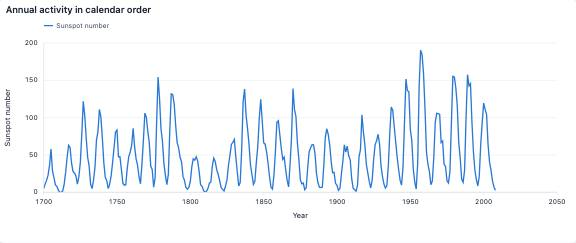
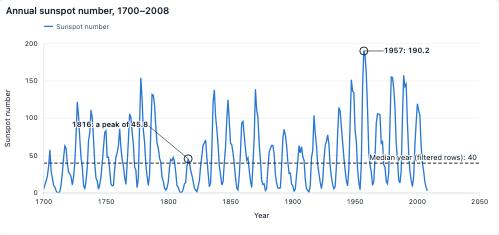
feat(daily): rewrite the sunspot notebooks around peak heights and the smoothing cost

diff --git a/apps/demo/public/daily-viz/projects/sunspots/smoothing-cost.eda.md b/apps/demo/public/daily-viz/projects/sunspots/smoothing-cost.eda.md
@@ -1,65 +1,52 @@
-# What an eleven-year average removes from the sunspot record
+# An eleven-year average halves the solar peaks and misplaces the quiet years
 
-**How different is annual activity from a centered eleven-observation mean?** Each row is one year.
+**What does a smoothed sunspot curve throw away?** Each row is one year of the annual sunspot number, 1700 to 2008, beside a centered eleven-year mean: the average of that year, the five before it, and the five after. Eleven years is one solar cycle, so the average deliberately removes the cycle. The cost is a curve that never shows a real maximum and puts the quiet years in the wrong place.
 
 ```eda
 eda query=r
 year:num=r.year label="Year"
 activity:num=r.activity label="Sunspot number"
-smooth11:num=r.smooth11 label="11-year mean (sunspot number)"
-departure:num=r.departure label="Departure (sunspot number)"
+smooth11:num=r.smooth11 label="11-year mean"
+departure:num=r.departure label="Departure from the 11-year mean"
+abs_departure:num=abs_departure label="Absolute departure"
 ```
 
-## 1. Raw annual values beside the centered mean
+## The average cuts every peak in half
 
-Both series stay on one scale. The smooth is deliberately unavailable where a complete centered window does not exist.
-
-```eda
-line @nb-sunspots-smoothing-cost-chart-1 x=year y=activity,smooth11 title="Raw annual values beside the centered mean" x.title="Year" y.title="Activity (sunspot number) / Smooth11 (sunspot number)"
-```
-
-## 2. What the smooth leaves out
-
-Subtracting the smooth makes the remaining amplitude visible. It does not create a separately measured physical quantity.
+The raw series spikes; the smoothed one rolls. The highest annual reading, 190.2 in 1957, becomes a smoothed value of 87.9 at that year, and the smoothed curve never rises above 95.6 anywhere in the record. The average is five years short at each end, so it stops in 2003 while the raw data run to 2008.
 
 ```eda
-line @nb-sunspots-smoothing-cost-chart-2 x=year y=departure title="What the smooth leaves out" x.title="Year" y.title="Departure (sunspot number)" {
-  rule y=0 "Equals centered mean"
+line @nb-sunspots-smoothing-cost-chart-1 x=year y=activity,smooth11 title="Annual sunspot number and its centered 11-year mean" x.title="Year" y.title="Sunspot number" {
+  callout "1957: 190.2 measured, 88 smoothed" pick=max offset=-40,-10
 }
 ```
 
-**Finding.** The largest annual value above its centered mean was 102.26 sunspot-number units.
+## The quiet year sits under the loudest average
 
-## 3. Large annual values versus their local reference
-
-This compares an observation with a summary that includes that observation. Their association is partly mathematical and must not be interpreted as independent validation.
+Subtract the average from each year. The largest departure above the average was 102.26, in 1957. The largest below was -91.19, in 1954, a year with a reading of 4.4 whose eleven-year window happens to contain the giant 1957 to 1959 maximum. The average says 1954 was the most active moment in the record; the Sun says it was a minimum.
 
 ```eda
-scatter @nb-sunspots-smoothing-cost-chart-3 x=smooth11 y=activity title="Large annual values versus their local reference" x.title="11-year mean (sunspot number)" y.title="Sunspot number"
+line @nb-sunspots-smoothing-cost-chart-2 x=year y=departure title="Annual sunspot number minus its 11-year mean" x.title="Year" y.title="Departure from the 11-year mean" {
+  rule y=0 "Equal to the average"
+  callout "1957: +102" pick=max offset=30,0
+  callout "1954: −91" pick=min offset=30,0
+}
 ```
 
-## 4. The distribution of departures
+## A typical year sits 30 away from its average
 
-Only complete-window years contribute. The edge exclusions are a consequence of the declared smoothing rule, not missing original activity measurements.
-
-```eda
-hist @nb-sunspots-smoothing-cost-chart-4 departure bins=24 title="The distribution of departures" x.title="Departure (sunspot number)" y.title="Rows"
-```
-
-**Finding.** The largest annual value below its centered mean was -91.19 sunspot-number units.
-
-## 5. The rows behind the charts
-
-Sort a column or select rows to check any value above. Selections in a notebook stay with their own chart.
+Count the years by their departure. The stack is centered on zero but wide: the average year sits 30.03 from its eleven-year mean, in one direction or the other, and 17.1% of years sit more than 50 away. For a series whose median year reads 40, that is not a small residual.
 
 ```eda
-table @nb-sunspots-smoothing-cost-records year,activity,smooth11,departure title="Records behind this comparison"
+hist @nb-sunspots-smoothing-cost-chart-3 departure bins=30 title="Years by departure from the 11-year mean" x.title="Departure from the 11-year mean" y.title="Years" {
+  rule x=0 "Equal to the average"
+}
 ```
 
 ## Takeaway
 
-Smoothing trades local peaks for a slower-moving reference. Display the departure and the missing edge estimates so the reader can see the cost of that trade.
+A centered eleven-year mean is the right tool for the slow question, whether the Sun was more active in one century than another, and the wrong one for any question about a maximum or a minimum. It halves the peaks and, in 1954, labels a quiet Sun as the busiest in three centuries.
 
 ## Limits
 
-A centered mean uses future observations and therefore is not a real-time forecast. The first and last five years lack complete windows and remain null rather than using shorter windows.
+A centered average reads five years into the future, so it is a description, not a forecast. The first and last five years have no complete window and stay blank rather than using a shorter one. The raw series is the historical annual sunspot number, not the 2015 recalibration.

diff --git a/apps/demo/public/daily-viz/projects/sunspots/cycles.eda.md b/apps/demo/public/daily-viz/projects/sunspots/cycles.eda.md
@@ -1,62 +1,51 @@
-# Sunspot peaks range from under 50 to 190
+# The Sun peaks about every eleven years, at anything from 46 to 190
 
-**How much does the height of the solar cycle vary from one peak to the next?** Each row is one year.
+**How much does one solar maximum resemble the next?** Each row is one year of the annual sunspot number, 1700 to 2008, the longest continuous record of the Sun's activity. The rhythm is dependable: a peak roughly every eleven years. The size of the peak is not, and the second half of the twentieth century was the busiest stretch in three centuries.
 
 ```eda
 eda query=r
 year:num=r.year label="Year"
 activity:num=r.activity label="Sunspot number"
-era:cat=r.era label="Era"
+era:cat=r.era label="Half-century"
 ```
 
-## 1. Annual activity in calendar order
+## Same rhythm, different heights
 
-Keep the full chronology before imposing any cycle boundaries. The observations do not arrive as identical repetitions of a template.
+Twenty-eight rises and falls in 309 years. The tallest, in 1957, reached 190.2, the largest annual sunspot number in the record. The peak of 1816, in the lull astronomers call the Dalton minimum, reached only 45.8, barely above the median year of 40.0. Most years sit below that dashed median; the cycle spends longer climbing out of its minimum than it does at the top.
 
 ```eda
-line @nb-sunspots-cycles-chart-1 x=year y=activity title="Annual activity in calendar order" x.title="Year" y.title="Sunspot number"
+line @nb-sunspots-cycles-chart-1 x=year y=activity title="Annual sunspot number, 1700–2008" x.title="Year" y.title="Sunspot number" {
+  rule y=median "Median year"
+  callout "1957: 190.2" pick=max offset=30,0
+  callout "1816: a peak of 45.8" on=r.id:sunspots-r-00117 offset=-60,-50
+}
 ```
 
-## 2. The distribution of annual activity
+## The late twentieth century was the busiest era
 
-Count years by activity rather than smoothing the cycles into a single average. A long upper tail can pull the mean away from a typical year.
+Fifty years in each box. The 1950–1999 box sits highest: its years averaged 73.1, against 40.0 for 1800–1849. The quiet years thin out too. In 1800–1849, 38.0% of years had a sunspot number under 20; in 1950–1999, 20.0% did.
 
 ```eda
-hist @nb-sunspots-cycles-chart-2 activity bins=24 title="The distribution of annual activity" x.title="Sunspot number" y.title="Rows"
+boxplot @nb-sunspots-cycles-chart-2 activity color=era title="Annual sunspot number by half-century" y.title="Sunspot number" {
+  rule y=median "Median year, all years"
+}
 ```
 
-**Finding.** The largest annual sunspot number is 190.2.
+## Three years in ten are quiet; one in seven is a big year
 
-## 3. Compare broad historical spans
-
-Half-century labels provide descriptive groups, not scientifically estimated cycle boundaries. The final span is incomplete.
+Count the years by their activity and the shape is lopsided: a tall stack of quiet years and a long tail of active ones. 29.1% of years had a sunspot number under 20, and 13.9% reached 100 or more. The eight years at 150 or above all belong to four cycles: 1778, 1947, 1957 to 1959, 1979 to 1980, and 1989.
 
 ```eda
-boxplot @nb-sunspots-cycles-chart-3 activity color=era title="Compare broad historical spans" y.title="Sunspot number"
-```
-
-## 4. Read low-activity thresholds without bins
-
-The curve gives the observed share of years at or below a threshold. It does not estimate the probability for an independent future year.
-
-```eda
-ecdf @nb-sunspots-cycles-chart-4 activity direction=below title="Read low-activity thresholds without bins" x.title="Sunspot number"
-```
-
-**Finding.** The median annual sunspot number is 40.0.
-
-## 5. The rows behind the charts
-
-Sort a column or select rows to check any value above. Selections in a notebook stay with their own chart.
-
-```eda
-table @nb-sunspots-cycles-records year,activity,era title="Records behind this comparison"
+hist @nb-sunspots-cycles-chart-3 activity bins=38 title="Years by annual sunspot number" x.title="Sunspot number" y.title="Years" {
+  rule x=20 "Under 20: a quiet year"
+  rule x=100 "100 or more"
+}
 ```
 
 ## Takeaway
 
-A repeated rise-and-fall pattern need not repeat at the same amplitude. The time series establishes order, while the distribution separates typical activity from a few large annual values.
+The solar cycle keeps time but not amplitude: peaks have ranged from 46 to 190, and the three biggest cycles all fell between 1947 and 1991. A forecast of the next maximum's timing is far safer than a forecast of its height.
 
 ## Limits
 
-The historical series is preserved as and is not the current revised international sunspot-number series. Annual averages obscure monthly peaks; this is not a forecast of the next cycle.
+This is the historical annual series, not the recalibrated sunspot number of 2015, which scales values differently. An annual mean flattens the monthly peak, and the first decades rest on sparse eighteenth-century observations.
